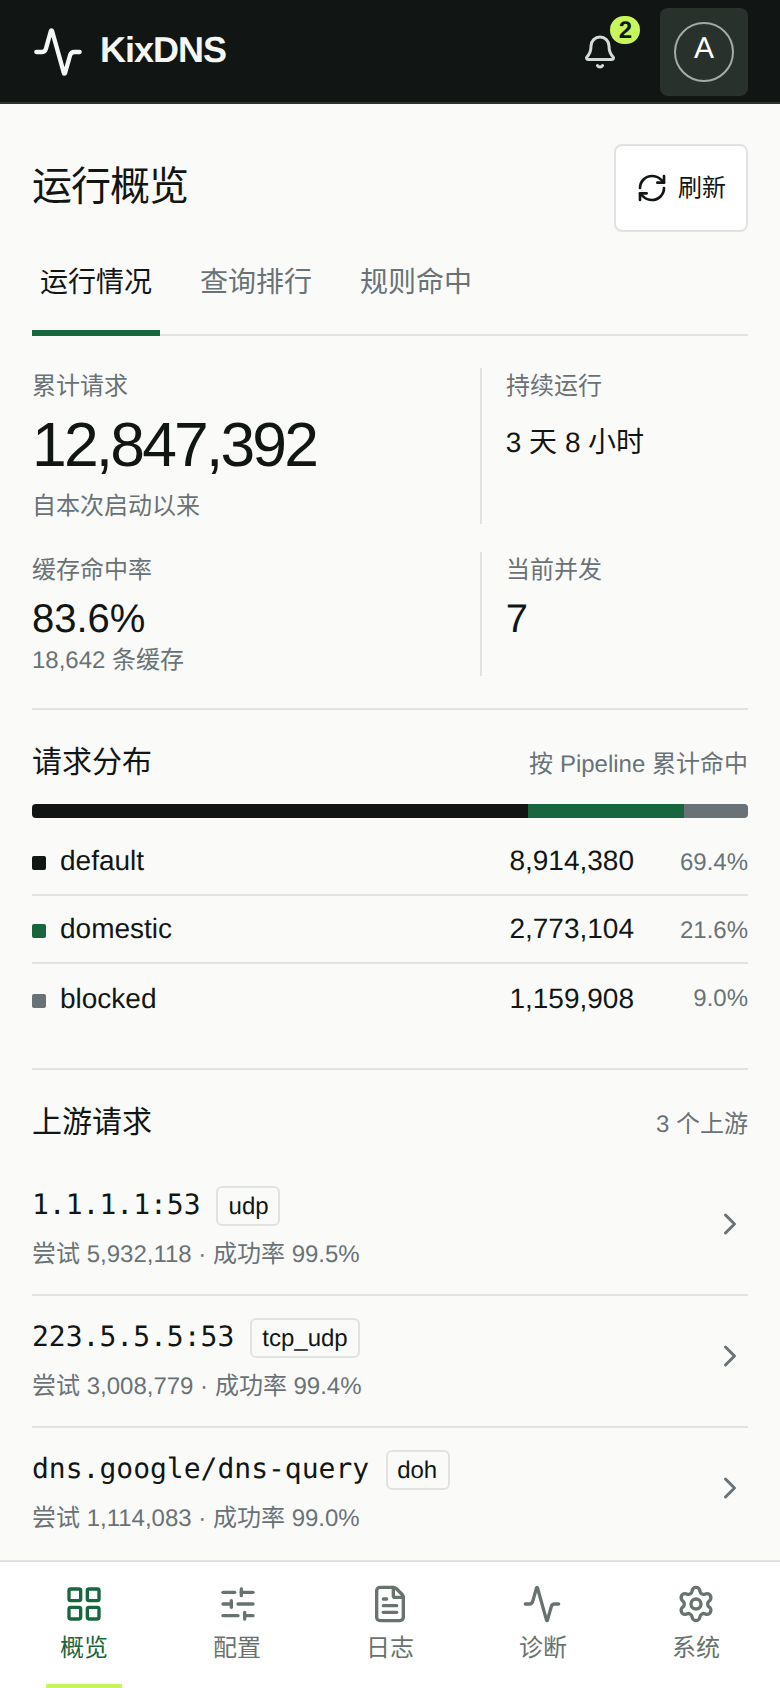
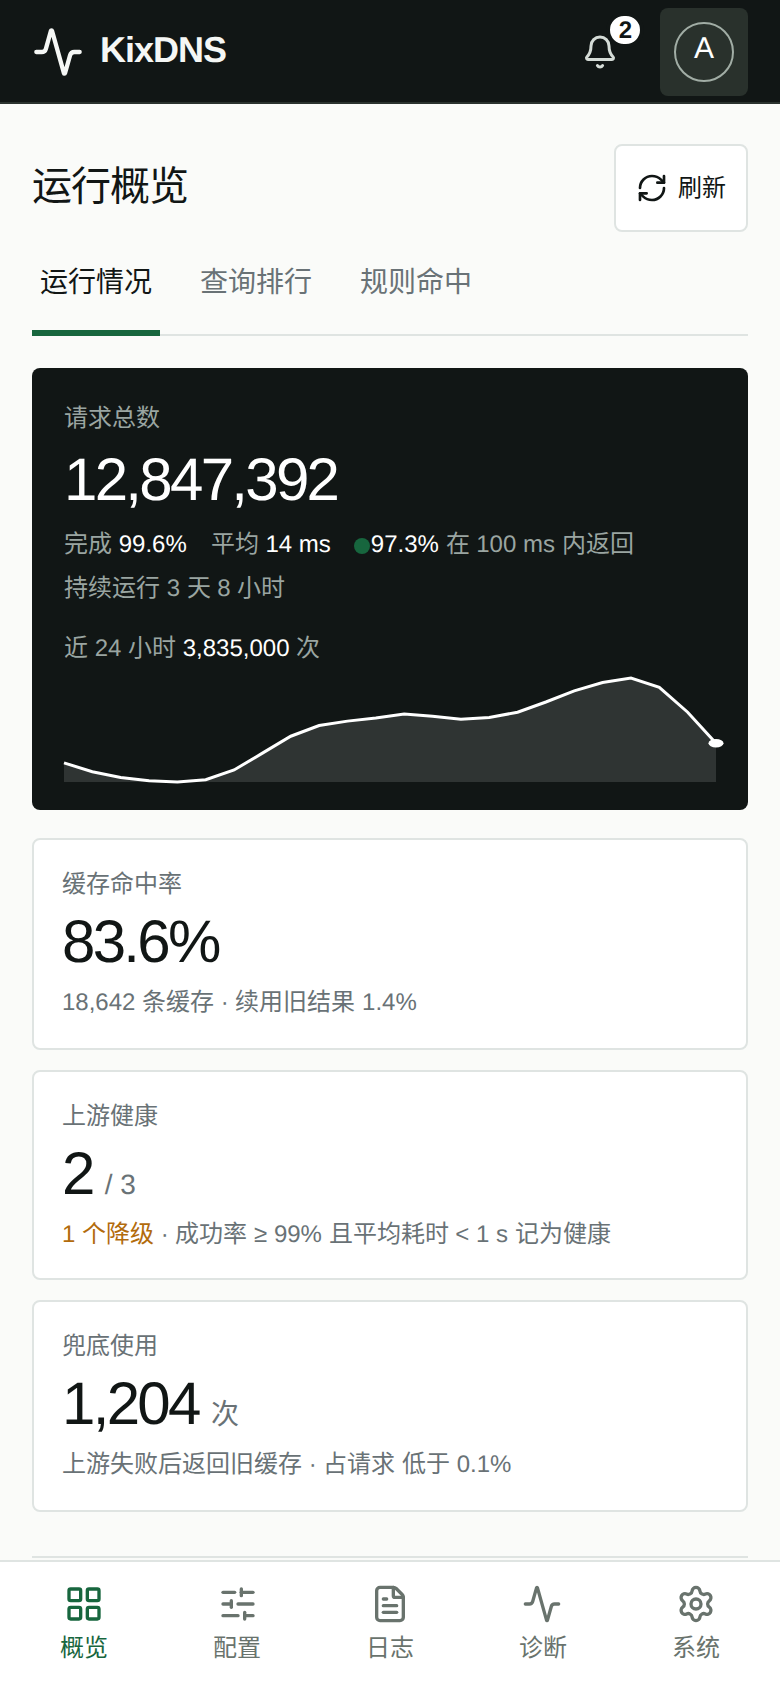
docs: 文档对齐 v3——重截六张图、拔掉写死的版本号、补上采样器 (#108)
* docs: refresh the README for the v3 console

界面预览那六张图还停在 v2.0.0（9 月 5 日），是五个页面重做之前的界面——堆叠条、
九列上游台账、满屏绿色。现在的产品长得完全不是那样，读者按图找不到对应的东西。
六张全部按同样的尺寸重截：桌面 1440 宽整页，手机 390×844 二倍图。

配置那张单独说明：演示数据里只有一个 default 管线、零个入口，直接截出来是一页
「暂无入口」，只有页面骨架、看不出这一页能做什么。截图时用页面自带的导入按钮
装了一份真实配置——是产品自己的路径，没有改任何源码或演示数据。

能力清单里「可展开执行轨迹」是错的：诊断按设计稿改成逐段直接摊开之后已经不用点。
顺带补上 3.0.0 起用户能看见、清单里却没有的几项：概览的请求量趋势、会话过期原地
重新验证与草稿保留、写明后果的确认框、不自动消失的失败提示、与结果同版式的骨架。

The six preview images were still from v2.0.0 (5 September), the console as it
looked before all five pages were rebuilt — stacked bar, nine-column upstream
table, green throughout. The product no longer looks anything like that, so a
reader cannot match the pictures to what they see. All six are retaken at the
same sizes as before: 1440-wide full pages for the desktop, 390x844 at 2x for
the phone.

The configuration shot needs a note: the demo data holds a single default
pipeline and no entries, so shooting it directly yields a page reading "no
entries yet" — the page's frame and nothing it can do. The screenshot run loads
a real config through the page's own import control, which is the product's own
path and changes no source or demo data.

"Expandable execution trace" in the capability list was wrong: the diagnostics
page lays every stage out inline since it was rebuilt to the mockup, with
nothing to click. Several things visible to users since 3.0.0 but missing from
the list are added alongside: the overview's request trend, re-authenticating in
[…]

diff --git a/README.md b/README.md
@@ -45,7 +45,10 @@ KixDNS 的非 Fork 增强发行版与管理面板。项目维护上游正式 Rel
 - 系统页可选配置 GitHub Token，将元数据 API 配额从匿名 60 次/小时提升到认证配额；Token 不会发送到 nightly.link
 - 版本激活健康检查、失败自动恢复与最多 8 个本地版本的受控库存
 - Vue 3 响应式控制台，桌面顶部导航、移动端底部导航与紧凑行式表单
-- 概览保留累计请求与 Pipeline 分布，诊断集中展示 DNS 应答、命中规则与可展开执行轨迹
+- 概览以一条信号带承载累计请求、完成率与平均耗时，并按面板自采样本画出请求量趋势
+- 诊断集中展示 DNS 应答、命中规则与逐段直接摊开的执行轨迹，无需逐步点开
+- 会话过期在原页重新验证，未保存的配置草稿原样保留；确认框写明将要发生什么，失败提示不自动消失
+- 各页加载显示与结果同版式的骨架，数据到达时不跳版
 - 面板与两条增强内核轨道独立构建 x86_64/ARM64 Artifact，自动跟随并续期已验证上游
 - 发布前真实启动增强进程，验证 DNS 应答、内部指标与结构化热加载回执
 - 完整包在 Ubuntu 22.04 临时机执行安装、覆盖升级、面板联调、systemd 控制与卸载验收
@@ -105,7 +108,9 @@ sudo bash ./scripts/install.sh
 
 如果主机已经存在 KixDNS，安装器会让你选择保留现有安装或迁移为 KixDNS Enhanced，不会默认替换。无人值守安装请显式使用 `--keep-existing` 或 `--replace-existing`；保留模式只接入受限面板，迁移模式会备份原 systemd unit 并保留原配置路径。
 
-面板 `v3.0.1` Release 提供 `kixdns-panel-linux-x86_64.zip` 与 `kixdns-panel-linux-arm64.zip`。本次修掉 v3.0.0 的四处显示错误：请求量趋势的桶宽跟随已采集时长，开机二十来分钟就画得出曲线，不再一直提示「需要至少两次采样」；分摊增量时改按累计份额相减，合计不再少于实际请求数；概览首屏的大数字回到累计请求总数，与紧邻的完成率、平均耗时、持续运行同口径，时段说明移到曲线上；运行日志去掉与实时开关重复的刷新键，凭据块的控件不再越出面板，配额未知时改为一句话说明。配置格式与增强控制协议保持不变，从 2.x 与 3.0.0 升级均无需任何操作。正式包记录 Release 标签，面板只根据后续正式 Release 提示自身更新；普通 `main` 提交和临时 Action 包不会触发面板更新提示。发现新版后可在“系统”页直接在线更新，过程固定从 `tuoro/kixdns-panel` 最新正式 Release 下载当前架构包，并校验 GitHub 资产摘要与包内 `SHA256SUMS`；更新只替换 Panel Server、Web、helper 和部署脚本，KixDNS 二进制、配置及启停状态保持不变。
+面板 Release 提供 `kixdns-panel-linux-x86_64.zip` 与 `kixdns-panel-linux-arm64.zip`，每个版本改了什么见对应 Release 说明。配置格式与增强控制协议至今保持不变，从任意旧版升级都无需转换配置。
+
+正式包记录 Release 标签，面板只根据后续正式 Release 提示自身更新；普通 `main` 提交和临时 Action 包不会触发面板更新提示。发现新版后可在“系统”页直接在线更新，过程固定从 `tuoro/kixdns-panel` 最新正式 Release 下载当前架构包，并校验 GitHub 资产摘要与包内 `SHA256SUMS`；更新只替换 Panel Server、Web、helper 和部署脚本，KixDNS 二进制、配置及启停状态保持不变。
 
 公共仓库无需 Token 也能使用，但 GitHub 匿名 API 仅提供每个出口 IP 60 次/小时。若同一公网 IP 下有多台设备，建议在“系统”页配置只读的 Fine-grained PAT；面板先通过 GitHub `/rate_limit` 验证，再以 `0600` 保存到 `/var/lib/kixdns-panel/github-token`。接口只返回是否配置和剩余配额，不返回 Token 明文或片段；删除后立即恢复匿名模式。
 

diff --git a/docs/architecture.md b/docs/architecture.md
@@ -56,7 +56,7 @@ Panel Web ---- Panel Server ---- SQLite
 - Artifact 名称为 `kixdns-enhanced-<来源>-<上游身份>-p<补丁集>-<输入指纹>-linux-<架构>`。输入指纹只覆盖锁文件选择的补丁集、`prepare` 构建路径、工作流和 Rust 工具链；仅用于自动重基的 `overlay.rs` 不进入可变指纹。新增更高补丁集或修改该维护逻辑不会改变历史版本指纹，目录新增版本时只补建缺失项。
 - 每个 Artifact 携带 `KIXDNS_CAPABILITIES.json`，并与二进制、上游锁和构建提交共同写入 `SHA256SUMS`；能力清单也是输入指纹的一部分。
 - 构建库存会校验全部锁的补丁集引用。拉取请求和直接推送均不得修改主分支已有集合，只能新增高于当前最大值的编号。
-- 每周库存检查会续建缺失或将在 7 天内过期的上游包；这些 Artifact 仍使用 GitHub 的 90 天保留期，不创建上游 KixDNS Release。面板自身通过 GitHub Release 发布完整安装包，当前正式版本为 `v2.0.0`。
+- 每周库存检查会续建缺失或将在 7 天内过期的上游包；这些 Artifact 仍使用 GitHub 的 90 天保留期，不创建上游 KixDNS Release。面板自身通过 GitHub Release 发布完整安装包。
 - `build-panel.yml` 只监听 Panel Server、Web、部署脚本和面板依赖。它从最近成功的内核工作流复用上游身份完全匹配的 Artifact，经包内 SHA-256 和 ELF 架构校验后生成完整安装包，不重新编译 KixDNS。
 - 发布构建固定在 Ubuntu 22.04 容器中完成，并拒绝包含高于 `GLIBC_2.35` 符号的 KixDNS 或 Panel Server，避免 GitHub Runner 升级悄然抬高发行版要求。
 - PR 只执行对应边界的验证 Job，不上传可安装 Artifact；README、截图等纯文档变化不触发打包工作流。

diff --git a/patches/README.md b/patches/README.md
@@ -3,7 +3,7 @@
 `sets/<编号>/` 保存不可变的版本化补丁集，锁文件中的 `patchset` 只读取对应编号。上游源码不进入本仓库；`cargo xtask prepare` 会检出到 `.upstream/kixdns-<source>-<commit>-p<patchset>`，并以 `git apply` 重放所选集合中的补丁。工具使用来源、补丁版本和内容 SHA-256 标记完整补丁集，支持幂等执行并拒绝混用不同内容。
 
 ~~~text
-sets/8/
+sets/22/
   capabilities.json               # Artifact 配置能力声明
   common/                         # 该补丁集的增强实现
   compatibility/<名称>/           # 锁文件显式选择的前置兼容层
@@ -14,7 +14,7 @@ sets/8/
 
 手工修改增强功能时的补丁更新流程：
 
-1. 从当前补丁集复制出更高编号，例如从 `sets/7/` 创建 `sets/8/`；不要修改 `sets/7/`。
+1. 从当前补丁集复制出更高编号，例如从 `sets/22/` 创建 `sets/23/`；不要修改 `sets/22/`。
 2. 使用指向新编号的候选锁准备 `.upstream/kixdns-<source>-<commit>-p<patchset>`，并在检出源码中完成修改。
 3. 对新增文件执行 `git add -N <file>`，使用 `git diff --binary --output=<新补丁路径>` 重新生成新集合中受影响的补丁。
 4. 新增配置字段时同步更新 `capabilities.json`、增强 health 声明和面板的集中能力注册表；不要根据版本号推断字段支持。
